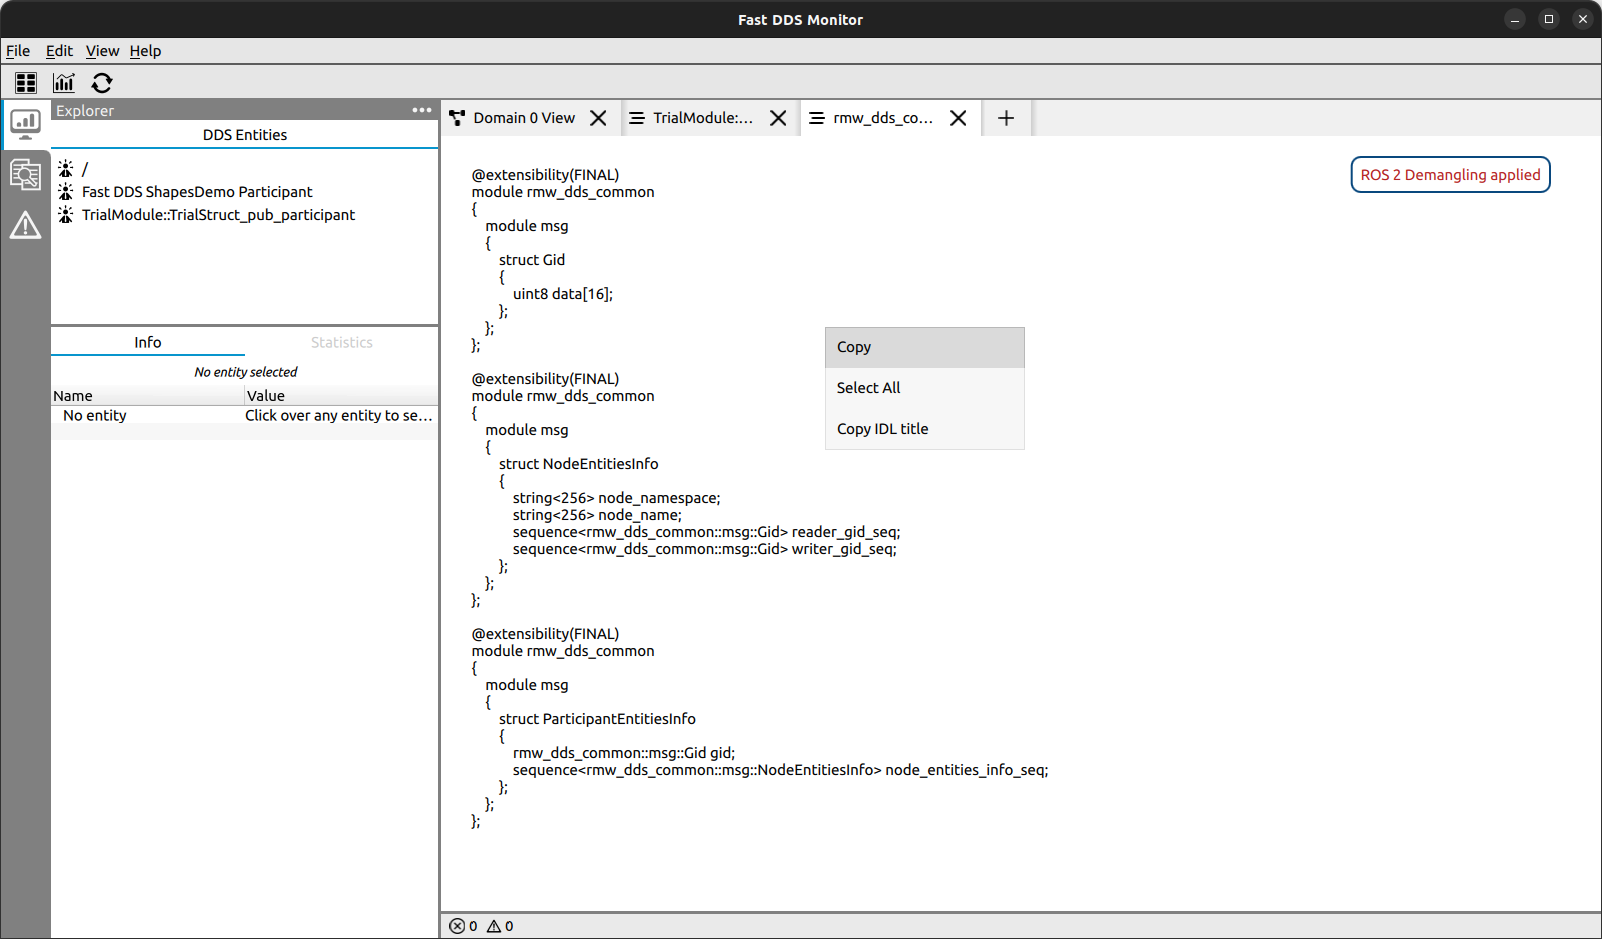
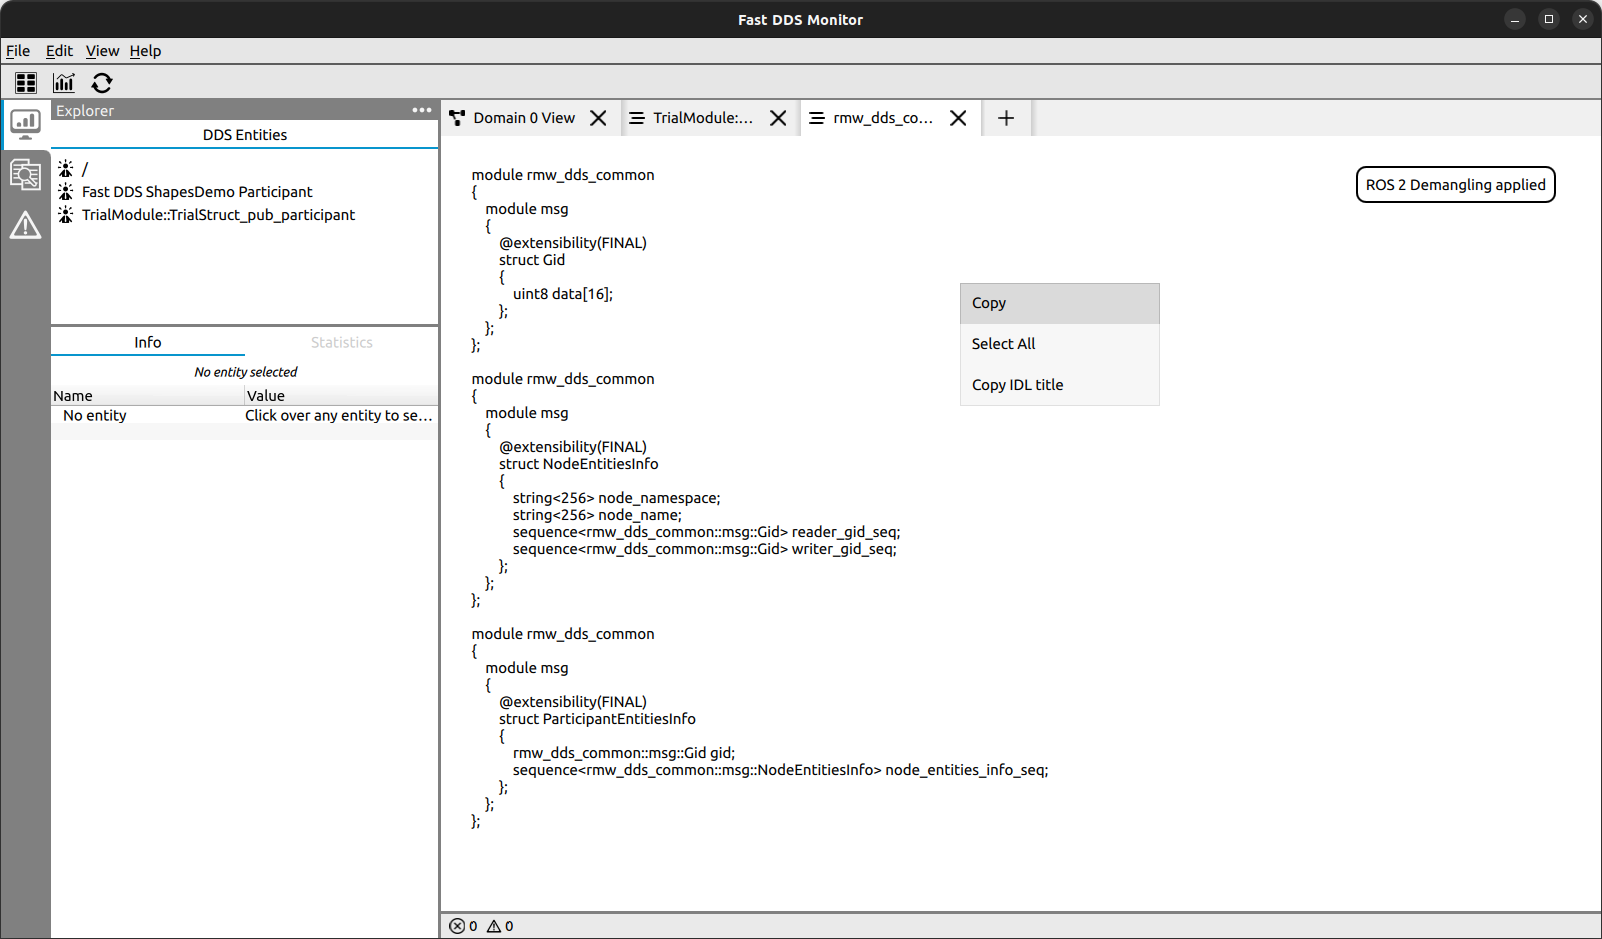
Refs 22912: updated tutorials

diff --git a/docs/rst/ros/jazzy/jazzy.rst b/docs/rst/ros/jazzy/jazzy.rst
@@ -93,9 +93,9 @@ can find several options, such as filtering the graph by the Topic (selecting *F
 
 Additionally, we can access the we can access the IDL representation of any of the Topics, by pressing right-click over
 the Topic name, and choosing *Data type IDL view*. This opens a new Tab with the required information, which can be
-copied and pasted.
+copied and pasted. Note that for ROS 2 topics, the IDL representation is demangled by default (can be undone in *View->Revert ROS 2 Demangling*).
 
-.. figure:: /rst/figures/screenshots/jazzy_tutorial/IDL_img_jazzy.png
+.. figure:: /rst/figures/screenshots/jazzy_tutorial/IDL_img_jazzy2.png
     :align: center
 
 Alias
